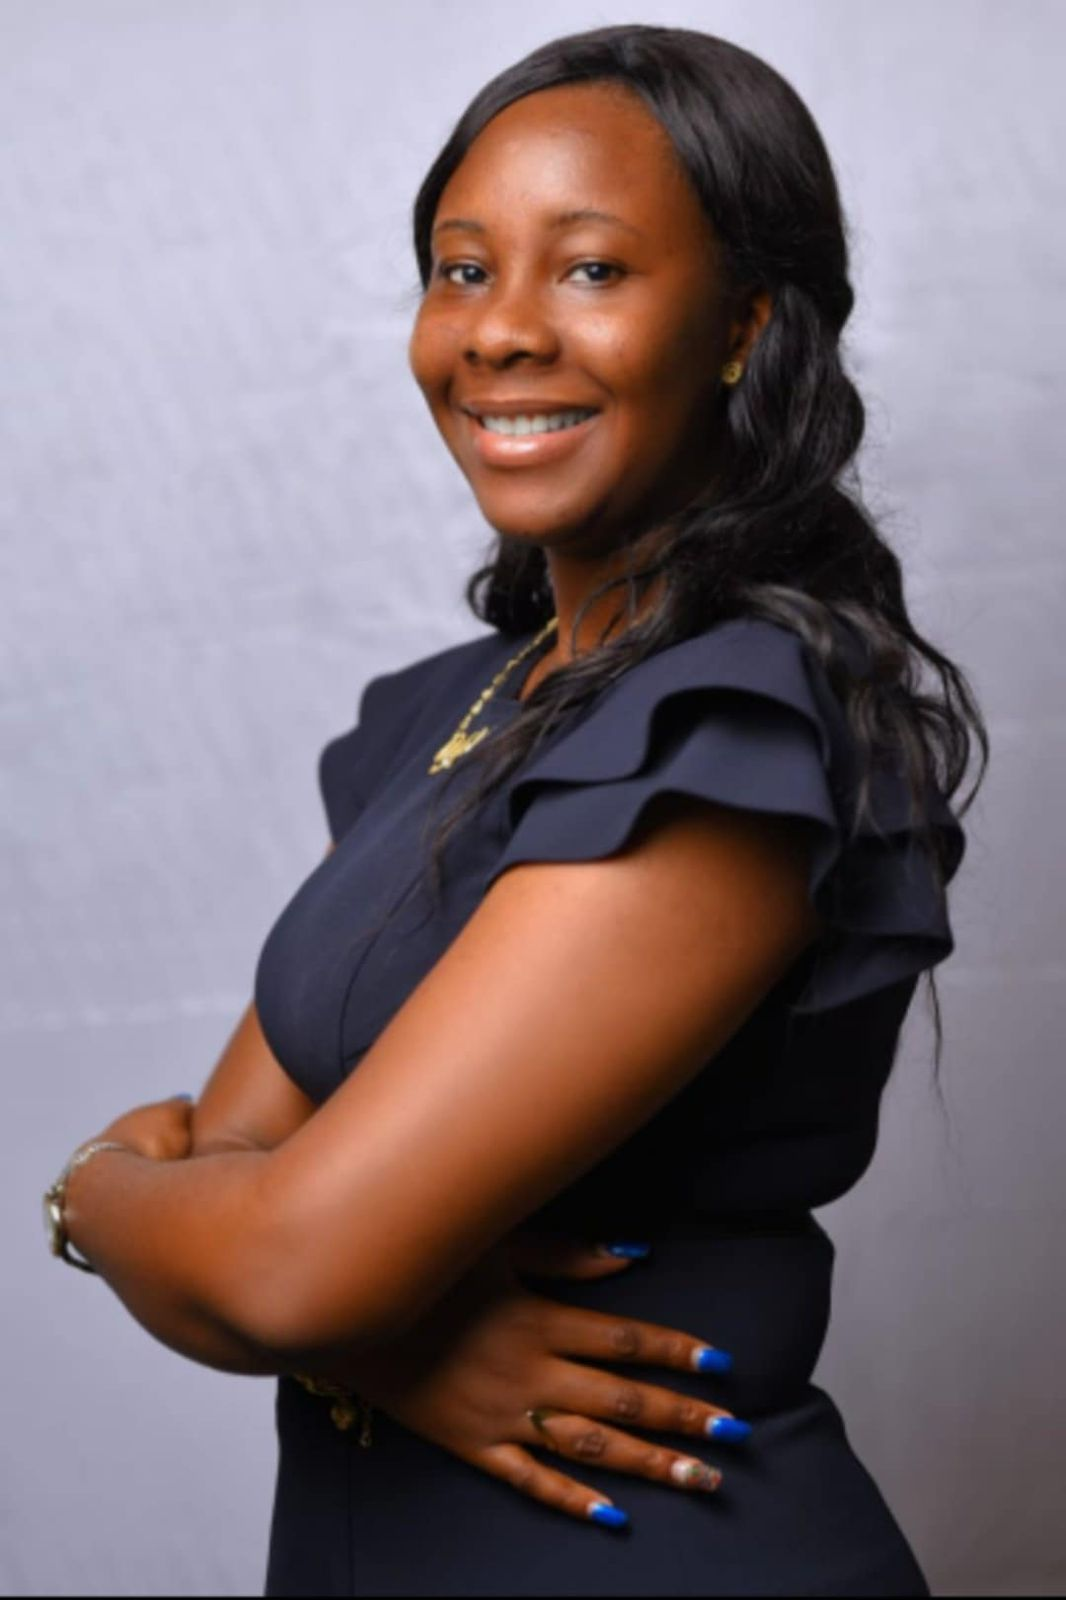
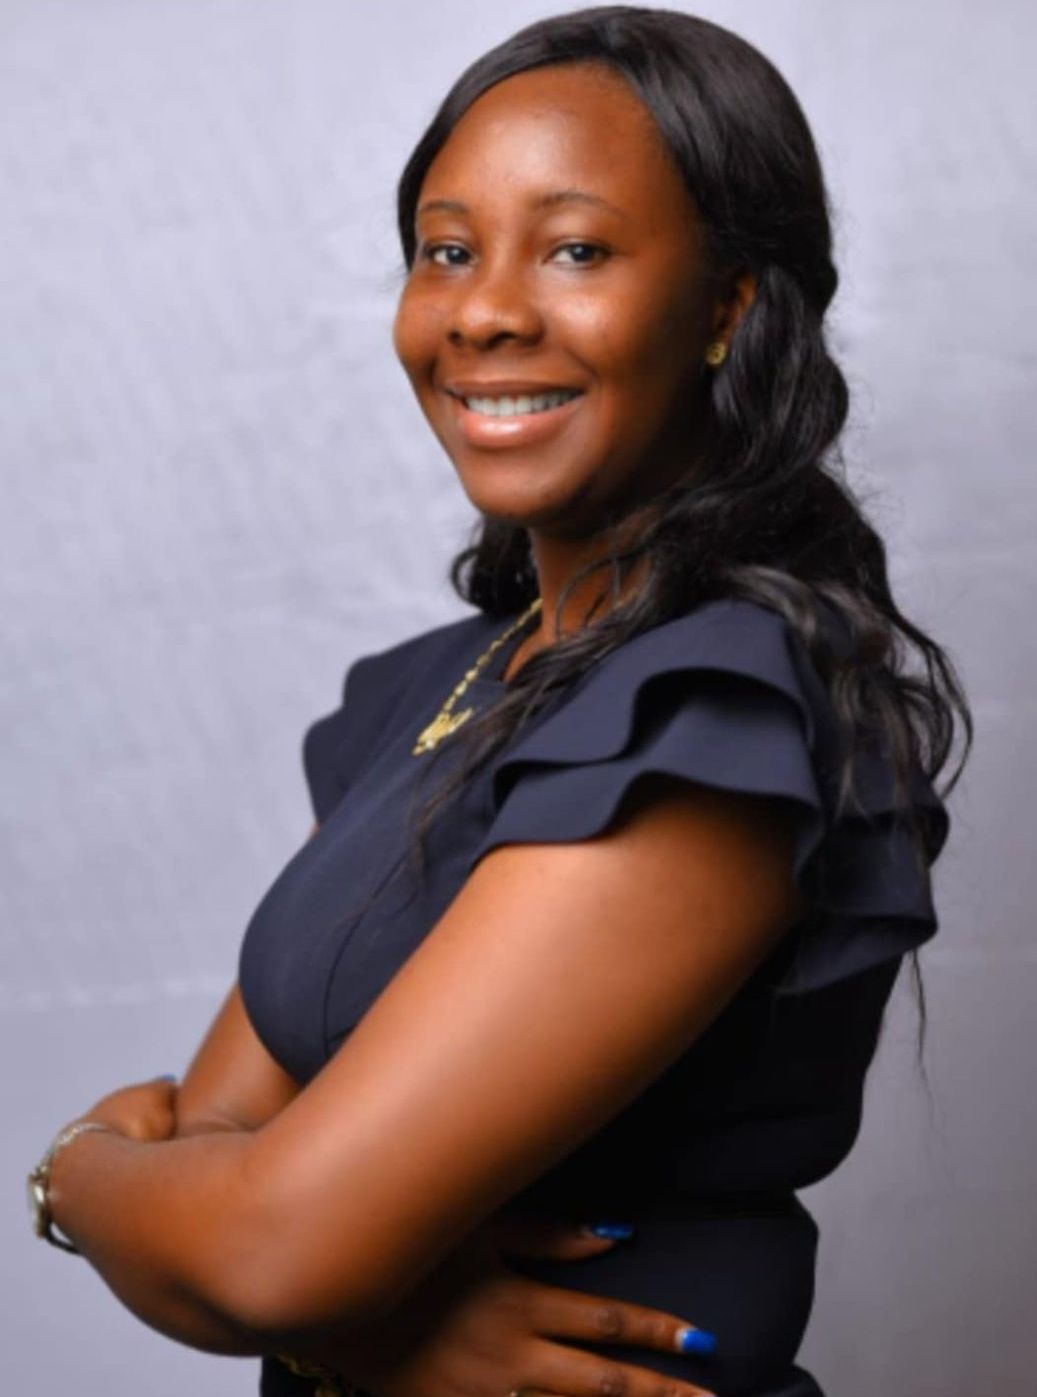
Fix board chair image display and add Render Web Service setup guide
- Fix board chair image object positioning to show face correctly
- Add comprehensive guide for switching from Static Site to Web Service
- Improve server.js logging for better debugging
- Add quick reference guide for 404 fix~

diff --git a/prinstine-website/src/pages/About.jsx b/prinstine-website/src/pages/About.jsx
@@ -341,6 +341,11 @@ function About() {
                     src={member.image}
                     alt={member.name}
                     className="w-full h-full object-cover"
+                    style={
+                      member.name.includes('Yolain')
+                        ? { objectPosition: 'center center', objectFit: 'cover' }
+                        : {}
+                    }
                   />
                   <div className="absolute inset-0 bg-gradient-to-t from-black/20 to-transparent"></div>
                 </motion.div>

diff --git a/prinstine-website/src/pages/Home.jsx b/prinstine-website/src/pages/Home.jsx
@@ -392,6 +392,11 @@ function Home() {
                     src={member.image}
                     alt={member.name}
                     className="w-full h-full object-cover"
+                    style={
+                      member.name.includes('Yolain')
+                        ? { objectPosition: 'center center', objectFit: 'cover' }
+                        : {}
+                    }
                   />
                   <div className="absolute inset-0 bg-gradient-to-t from-black/20 to-transparent"></div>
                 </motion.div>

diff --git a/prinstine-website/server.js b/prinstine-website/server.js
@@ -39,7 +39,8 @@ app.get('*', (req, res) => {
 });
 
 app.listen(PORT, () => {
-  console.log(`Server is running on port ${PORT}`);
-  console.log(`Serving static files from: ${distPath}`);
+  console.log(`✅ Server is running on port ${PORT}`);
+  console.log(`📁 Serving static files from: ${distPath}`);
+  console.log(`🌐 SPA routing enabled - all routes will serve index.html`);
 });
 

diff --git a/RENDER_WEB_SERVICE_SETUP.md b/RENDER_WEB_SERVICE_SETUP.md
@@ -1,0 +1,91 @@
+# Render Web Service Setup - Fix 404 Errors
+
+## Problem
+The website is currently deployed as a **Static Site** on Render, which doesn't support server-side routing. This causes 404 errors when refreshing pages like `/about`, `/services`, etc.
+
+## Solution
+Switch from **Static Site** to **Web Service** to enable the `server.js` file that handles SPA routing.
+
+## Step-by-Step Instructions
+
+### Option 1: Manual Setup (Recommended)
+
+1. **Go to Render Dashboard**: https://dashboard.render.com
+2. **Find your current Static Site** (named something like `prinstine-frontend`)
+3. **Delete the Static Site**:
+   - Go to Settings → Scroll to bottom
+   - Click "Delete Service"
+   - Confirm deletion
+
+4. **Create a new Web Service**:
+   - Click "New +" → "Web Service"
+   - Connect your GitHub repository: `samsonbryant/prinstine-group-of-companies`
+   - Configure with these **exact** settings:
+     - **Name**: `prinstine-frontend` (or any name you prefer)
+     - **Root Directory**: `prinstine-website` ⚠ **Important**
+     - **Environment**: `Node`
+     - **Build Command**: `npm install && npm run build`
+     - **Start Command**: `npm start` ⚠ **Important**
+     - **Plan**: Choose your plan (Free tier works)
+
+5. **Environment Variables** (optional):
+   - `NODE_ENV`: `production`
+
+6. **Click "Create Web Service"**
+
+7. **Wait for deployment** (usually 3-5 minutes)
+
+8. **Configure Custom Domain** (if you had one):
+   - Go to Settings → Custom Domains
+   - Add your domain: `prinstinegroup.org`
+   - Update DNS records if needed
+   - Enable "Force HTTPS"
+
+### Option 2: Using render.yaml (Blueprint)
+
+If you want to use the `render.yaml` file:
+
+1. **Go to Render Dashboard**: https://dashboard.render.com
+2. **Click "New +" → "Blueprint"**
+3. **Connect your GitHub repository**
+4. **Render will automatically detect `render.yaml`**
+5. **Review and create the service**
+
+The `render.yaml` file is already configured in the repository root.
+
+## Verification
+
+After deployment, test these URLs (they should all work without 404):
+- ✅ `https://prinstinegroup.org/`
+- ✅ `https://prinstinegroup.org/about` (refresh should work)
+- ✅ `https://prinstinegroup.org/services` (refresh should work)
+- ✅ `https://prinstinegroup.org/what-we-do` (refresh should work)
+- ✅ `https://prinstinegroup.org/partners` (refresh should work)
+- ✅ `https://prinstinegroup.org/bank-details` (refresh should work)
+- ✅ `https://prinstinegroup.org/certificate-verification` (refresh should work)
+
+## Important Notes
+
+- **Static Sites** on Render cannot run `server.js` - you MUST use Web Service
+- The `server.js` file serves `index.html` for all routes, allowing React Router to handle routing
+- The Web Service will automatically restart on code pushes (if auto-deploy is enabled)
+- Make sure your custom domain points to the new Web Service, not the old Static Site
+
+## Troubleshooting
+
+### Still getting 404 errors?
+1. Verify you're using **Web Service**, not Static Site
+2. Check that `Start Command` is set to `npm start`
+3. Check build logs to ensure `server.js` is running
+4. Verify `dist` folder is being created during build
+
+### Build fails?
+1. Check that `Root Directory` is set to `prinstine-website`
+2. Verify `package.json` has the `start` script
+3. Check that `express` is in dependencies
+
+### Domain not working?
+1. Update DNS to point to the new Web Service
+2. Remove old Static Site DNS records
+3. Wait for DNS propagation (15-30 minutes)
+

diff --git a/QUICK_FIX_404.md b/QUICK_FIX_404.md
@@ -1,0 +1,36 @@
+# Quick Fix for 404 Errors
+
+## The Problem
+Your website is deployed as a **Static Site** on Render, but it needs to be a **Web Service** to fix 404 errors.
+
+## The Solution (5 Minutes)
+
+### Step 1: Delete Static Site
+1. Go to https://dashboard.render.com
+2. Find your Static Site service
+3. Settings → Delete Service
+
+### Step 2: Create Web Service
+1. Click "New +" → "Web Service"
+2. Connect GitHub repo: `samsonbryant/prinstine-group-of-companies`
+3. **Settings:**
+   - **Name**: `prinstine-frontend`
+   - **Root Directory**: `prinstine-website` ⚠
+   - **Environment**: `Node`
+   - **Build Command**: `npm install && npm run build`
+   - **Start Command**: `npm start` ⚠
+4. Click "Create Web Service"
+
+### Step 3: Add Custom Domain
+1. Settings → Custom Domains
+2. Add: `prinstinegroup.org`
+3. Enable "Force HTTPS"
+
+## That's It!
+After deployment (3-5 min), all routes will work without 404 errors.
+
+## Why This Works
+- Static Sites can't run `server.js`
+- Web Services can run `server.js` which handles SPA routing
+- The `server.js` file serves `index.html` for all routes
+
